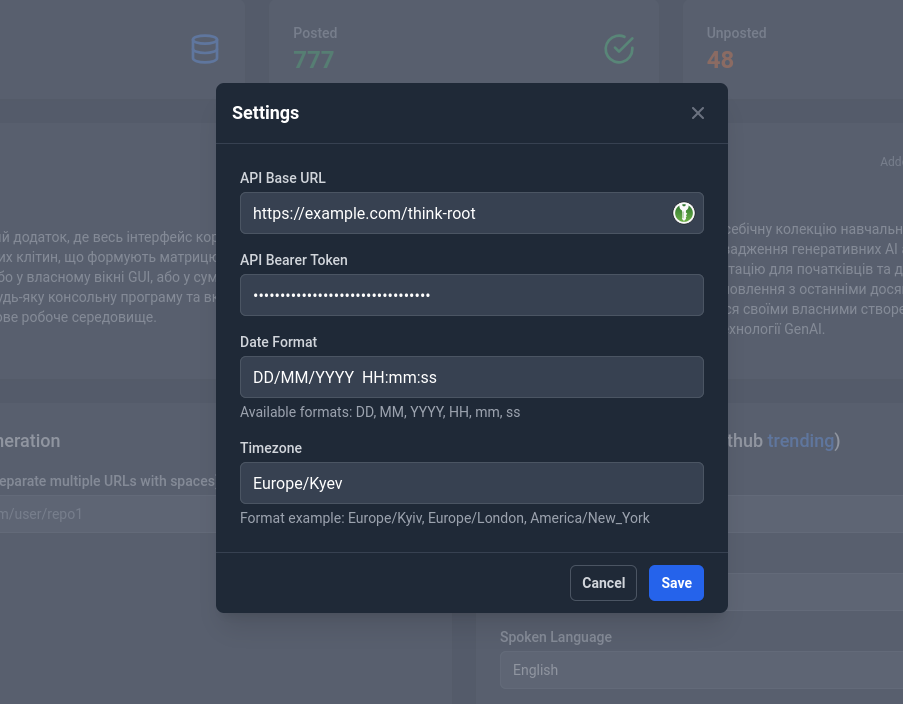
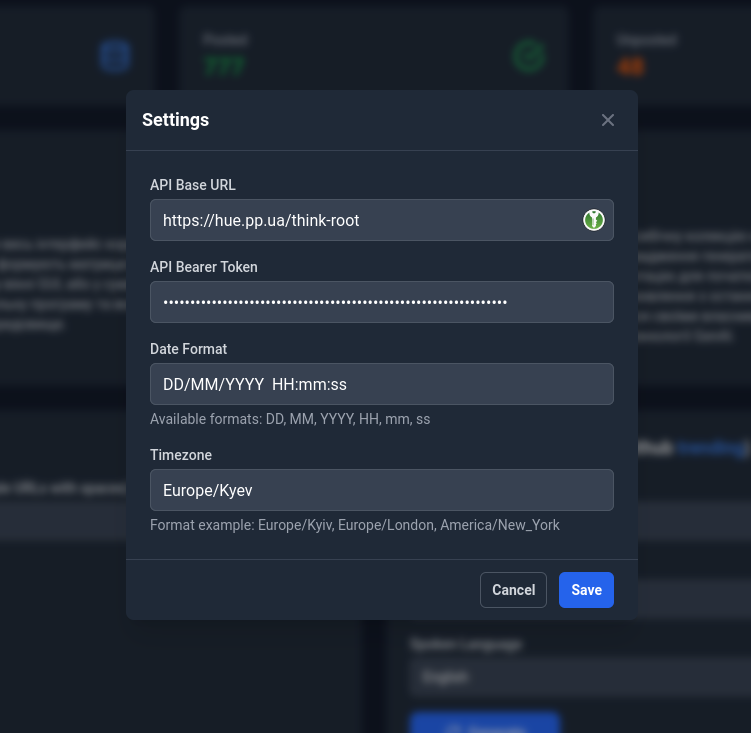
fix(SettingsModal): update backdrop styling for improved visual clarity
Modified the backdrop of the SettingsModal component to use a black background with a blur effect, enhancing the visual experience when the modal is open. This change improves focus on the modal content and overall user interface aesthetics.

diff --git a/src/components/SettingsModal.tsx b/src/components/SettingsModal.tsx
@@ -42,7 +42,7 @@ export const SettingsModal: React.FC<SettingsModalProps> = ({ isOpen, onClose })
       )}
       <div className="fixed inset-0 z-50 overflow-y-auto">
         <div className="flex min-h-full items-end justify-center p-4 text-center sm:items-center sm:p-0">
-          <div className="fixed inset-0 bg-gray-500 bg-opacity-75 transition-opacity" onClick={onClose} />
+          <div className="fixed inset-0 bg-black/30 backdrop-blur-sm transition-all" onClick={onClose} />
           
           <div className="relative transform overflow-hidden rounded-lg bg-white dark:bg-gray-800 text-left shadow-xl transition-all sm:my-8 sm:w-full sm:max-w-lg">
             <div className="border-b border-gray-200 dark:border-gray-700">
